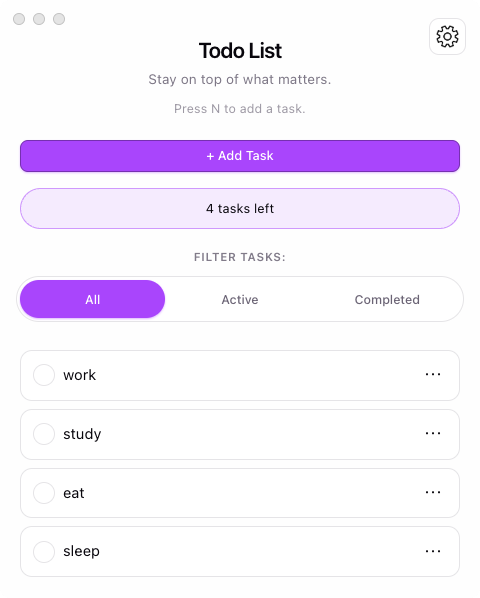
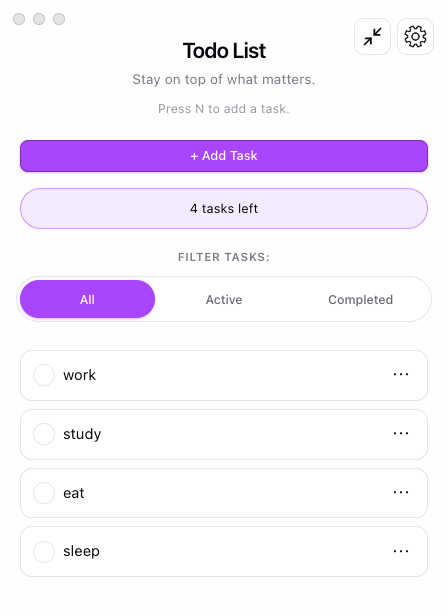
minimal mode

diff --git a/desktop/main.js b/desktop/main.js
@@ -100,6 +100,86 @@ const INJECTED_CSS = `
     margin: 0 !important;
     z-index: 2 !important;
   }
+  /* ---------- Minimal-mode toggle button ---------- */
+  /* Visually mirror the existing settings gear and sit just to its left. */
+  #electron-minimal-toggle {
+    position: fixed;
+    top: 1.1rem;
+    right: 3.55rem;
+    z-index: 10;
+    display: flex;
+    align-items: center;
+    justify-content: center;
+    width: 2.35rem;
+    height: 2.35rem;
+    padding: 0.45rem;
+    border: 1px solid var(--border);
+    border-radius: 10px;
+    background: var(--bg);
+    color: var(--text-h);
+    cursor: pointer;
+    box-shadow: 0 1px 2px color-mix(in srgb, var(--shadow) 40%, transparent);
+    transition:
+      border-color 0.15s ease,
+      background 0.15s ease,
+      transform 0.1s ease,
+      color 0.15s ease;
+    -webkit-app-region: no-drag;
+  }
+  #electron-minimal-toggle:hover {
+    border-color: var(--accent-border);
+    background: var(--social-bg);
+  }
+  #electron-minimal-toggle:focus-visible {
+    outline: 2px solid var(--accent);
+    outline-offset: 2px;
+  }
+  #electron-minimal-toggle:active {
+    transform: scale(0.96);
+  }
+  #electron-minimal-toggle svg {
+    width: 100%;
+    height: 100%;
+    display: block;
+  }
+  #electron-minimal-toggle .icon-expand {
+    display: none;
+  }
+  body.app--minimal #electron-minimal-toggle {
+    background: var(--accent-bg);
+    border-color: var(--accent-border);
+    color: var(--accent);
+  }
+  body.app--minimal #electron-minimal-toggle .icon-minimize {
+    display: none;
+  }
+  body.app--minimal #electron-minimal-toggle .icon-expand {
+    display: block;
+  }
+  /* ---------- Minimal-mode layout: hide non-essential sections ---------- */
+  body.app--minimal .app > h1,
+  body.app--minimal .app > .todo-subtitle,
+  body.app--minimal .app > .todo-stats,
+  body.app--minimal .app > .filters,
+  body.app--minimal .app > .clear-completed-and-undo {
+    display: none !important;
+  }
+  /* In normal mode the title/subtitle naturally pushed the Add Task button
+     down past the icon row. Without them we need explicit clearance so the
+     button doesn't sit under the minimal/settings icons. The icons span from
+     top:1.1rem to ~3.45rem; 4rem leaves a comfortable ~0.55rem gap. */
+  body.app--minimal .app {
+    padding-top: 4rem !important;
+  }
+  /* drop the bottom padding we added for the floating Undo button */
+  body.app--minimal .app:has(.clear-completed-and-undo .btn-ghost) {
+    padding-bottom: clamp(1.25rem, 4vw, 1.75rem) !important;
+  }
+  /* and trim the Add Task button's bottom margin since the next thing under
+     it is just the list — no need for the original 1rem breathing room */
+  body.app--minimal .app > .todo-add-section {
+    margin-bottom: 0.6rem !important;
+  }
 `;
 
 function resolveDistDir() {
@@ -337,22 +417,39 @@ function createWindow() {
   win.on('focus', () => syncAlwaysOnTopMenu(win));
 }
 
+function cssHeightToDip(rawCssHeight) {
+  const cssHeight = Math.ceil(rawCssHeight);
+  if (!Number.isFinite(cssHeight) || cssHeight <= 0) return null;
+  const scale = SCALE_PRESETS[currentSize] || 1.0;
+  const cappedCss = Math.min(BASE.MAX_AUTOGROW, cssHeight);
+  return Math.ceil(cappedCss * scale);
+}
+
 ipcMain.on('content-height', (event, rawCssHeight) => {
   const win = BrowserWindow.fromWebContents(event.sender);
   if (!win || win.isDestroyed()) return;
-  const cssHeight = Math.ceil(rawCssHeight);
-  if (!Number.isFinite(cssHeight) || cssHeight <= 0) return;
-
-  // The renderer measures in CSS pixels. With the zoom factor applied,
-  // 1 CSS px = scale DIPs on screen. Convert + cap.
-  const scale = SCALE_PRESETS[currentSize] || 1.0;
-  const cappedCss = Math.min(BASE.MAX_AUTOGROW, cssHeight);
-  const desiredDip = Math.ceil(cappedCss * scale);
+  const desiredDip = cssHeightToDip(rawCssHeight);
+  if (desiredDip === null) return;
 
   const [w, currentH] = win.getContentSize();
   // only auto-grow; never shrink the window the user has manually sized
   if (desiredDip <= currentH) return;
   win.setContentSize(w, desiredDip, false);
+});
+
+// Used by the minimal-mode toggle: refit the window to current content height
+// in BOTH directions (allow shrinking too), so that flipping minimal on / off
+// produces an obviously-tighter or obviously-larger window.
+ipcMain.on('content-height-fit', (event, rawCssHeight) => {
+  const win = BrowserWindow.fromWebContents(event.sender);
+  if (!win || win.isDestroyed()) return;
+  const desiredDip = cssHeightToDip(rawCssHeight);
+  if (desiredDip === null) return;
+
+  const scale = SCALE_PRESETS[currentSize] || 1.0;
+  const minH = Math.round(BASE.MIN_HEIGHT * scale);
+  const [w] = win.getContentSize();
+  win.setContentSize(w, Math.max(desiredDip, minH), false);
 });
 
 app.whenReady().then(() => {

diff --git a/desktop/preload.js b/desktop/preload.js
@@ -1,8 +1,8 @@
 const { ipcRenderer } = require('electron');
 
-// Watch the .app card's height and report it to the main process so that
-// the BrowserWindow can resize itself to match the content (clamped on the
-// main side to a sane min/max range).
+// =============================================================================
+// 1) Auto-grow watcher: report .app's CSS height back to main on every change
+// =============================================================================
 
 let lastReported = 0;
 let observer = null;
@@ -44,7 +44,90 @@ function startWatching() {
   }, 50);
 }
 
+// =============================================================================
+// 2) Minimal-mode toggle: inject a button next to the gear that hides every
+//    non-essential element. Persists in localStorage so it survives reloads.
+// =============================================================================
+
+const MINIMAL_KEY = 'electron-minimal-mode';
+
+const ICON_MINIMIZE = `<svg class="icon-minimize" viewBox="0 0 24 24" fill="none" stroke="currentColor" stroke-width="2" stroke-linecap="round" stroke-linejoin="round" aria-hidden="true"><polyline points="4 14 10 14 10 20"/><polyline points="20 10 14 10 14 4"/><line x1="14" y1="10" x2="21" y2="3"/><line x1="3" y1="21" x2="10" y2="14"/></svg>`;
+const ICON_EXPAND = `<svg class="icon-expand" viewBox="0 0 24 24" fill="none" stroke="currentColor" stroke-width="2" stroke-linecap="round" stroke-linejoin="round" aria-hidden="true"><polyline points="15 3 21 3 21 9"/><polyline points="9 21 3 21 3 15"/><line x1="21" y1="3" x2="14" y2="10"/><line x1="3" y1="21" x2="10" y2="14"/></svg>`;
+
+function readMinimalState() {
+  try {
+    return window.localStorage.getItem(MINIMAL_KEY) === '1';
+  } catch {
+    return false;
+  }
+}
+
+function writeMinimalState(active) {
+  try {
+    window.localStorage.setItem(MINIMAL_KEY, active ? '1' : '0');
+  } catch {
+    /* ignore quota / privacy errors */
+  }
+}
+
+function requestFitWindow() {
+  // ask main to refit the window to whatever the card's natural height is now,
+  // overriding the usual "only grow" rule (used when the user toggles minimal
+  // mode and the card just got shorter)
+  const card = document.querySelector('.app');
+  if (!card) return;
+  const h = Math.ceil(card.getBoundingClientRect().height);
+  if (!Number.isFinite(h) || h <= 0) return;
+  ipcRenderer.send('content-height-fit', h);
+}
+
+function ensureMinimalToggle() {
+  if (document.getElementById('electron-minimal-toggle')) return;
+  if (!document.body) return;
+
+  const btn = document.createElement('button');
+  btn.type = 'button';
+  btn.id = 'electron-minimal-toggle';
+  btn.setAttribute('aria-label', 'Toggle minimal view');
+  btn.title = 'Toggle minimal view';
+  btn.innerHTML = ICON_MINIMIZE + ICON_EXPAND;
+  btn.addEventListener('click', () => {
+    const next = !document.body.classList.contains('app--minimal');
+    document.body.classList.toggle('app--minimal', next);
+    writeMinimalState(next);
+    // wait for layout to settle before refitting the window
+    requestAnimationFrame(() => requestAnimationFrame(requestFitWindow));
+  });
+
+  document.body.appendChild(btn);
+
+  if (readMinimalState()) {
+    document.body.classList.add('app--minimal');
+  }
+}
+
+// React replaces the contents of #root after mount, but #electron-minimal-toggle
+// lives directly under <body> (outside #root) so React's reconciler ignores it.
+// Still, set up a MutationObserver as a safety net in case the body is reset.
+function watchForBodyResets() {
+  const mo = new MutationObserver(() => {
+    if (!document.getElementById('electron-minimal-toggle')) {
+      ensureMinimalToggle();
+    }
+  });
+  mo.observe(document.documentElement, { childList: true, subtree: false });
+  if (document.body) {
+    mo.observe(document.body, { childList: true });
+  }
+}
+
+// =============================================================================
+// Bootstrapping
+// =============================================================================
+
 window.addEventListener('DOMContentLoaded', () => {
+  ensureMinimalToggle();
+  watchForBodyResets();
   startWatching();
 });
 

diff --git a/README.md b/README.md
@@ -28,6 +28,7 @@ Unistall in `Applications` folder.
 - Settings panel: light / dark / follow system, where new tasks get inserted (top or bottom), whether the input closes after adding, custom color presets, and a one-click "clear all".
 - Keyboard shortcut `n` to start a new task.
 - Data lives in `localStorage`, so your list stays put between launches.
+- Minimal mode, only shows "Add Task" and to do list.
 - The window can float on top. (Window -> Always on top)
 - Window zoom in/out proportionally. (Window -> Window size)
 